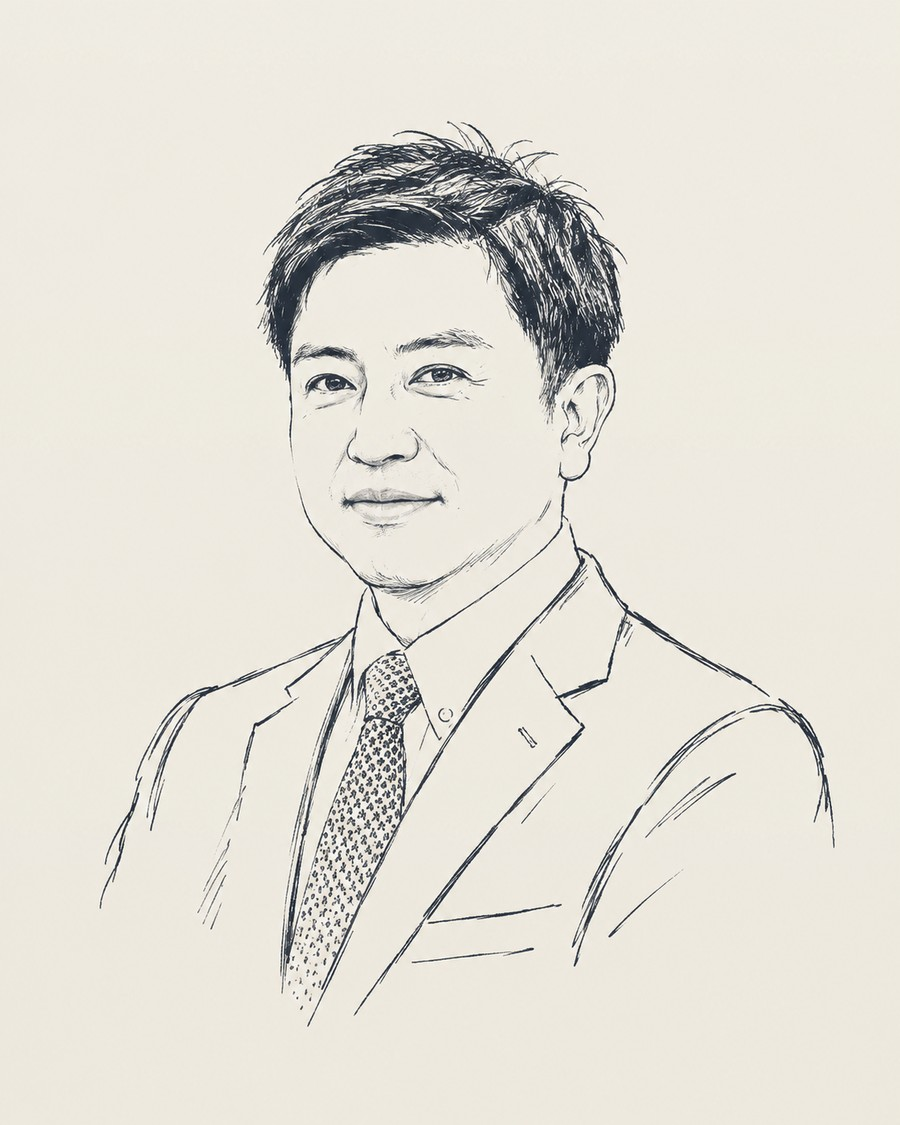
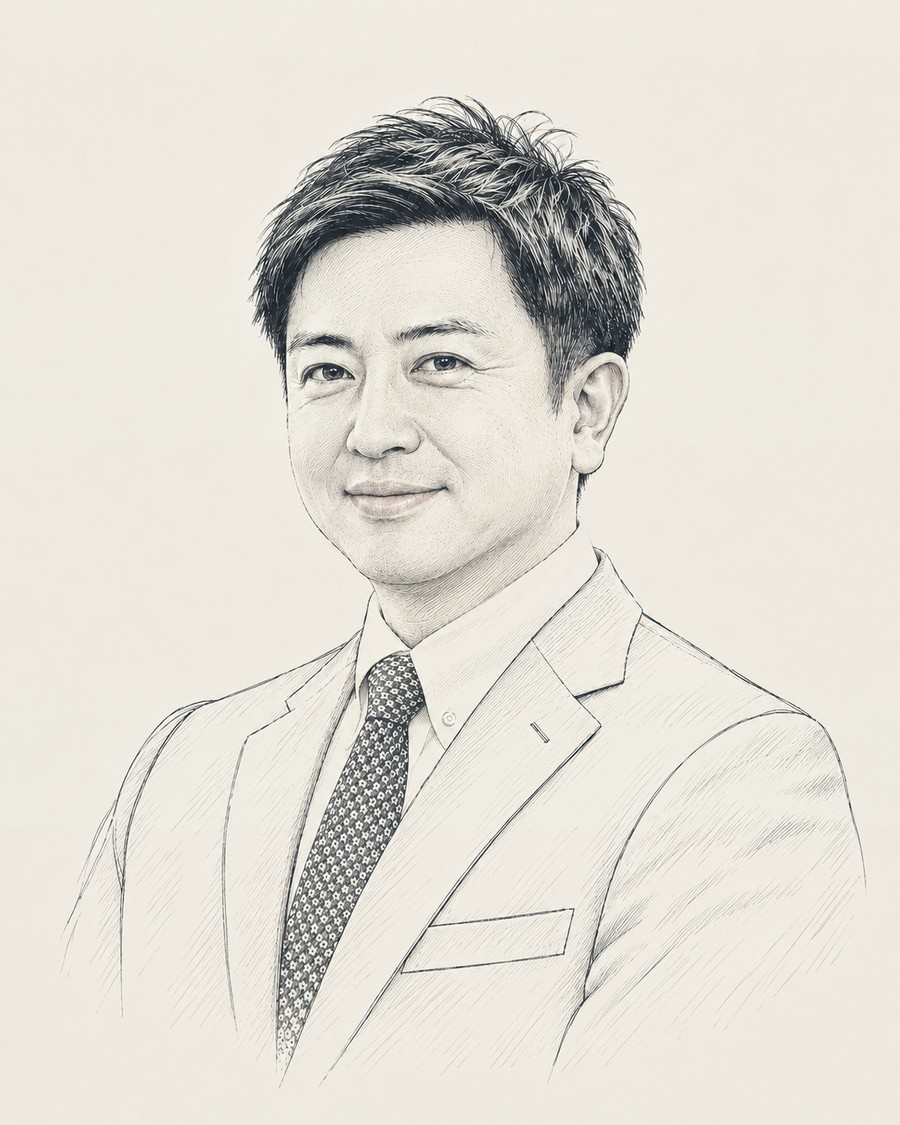
Swap in the updated Kazuyuki Surita portrait illustration
User provided a new version of Surita's portrait (warmer ivory-suit
rendering, same pose/likeness) to replace the one shipped earlier today.

docs/assets/img/leadership-surita.jpg: re-processed with the same
per-row gradient-match pipeline as the other two portraits (background
color-matched to .person-grad's actual gradient at this element's
measured position in the card, not a flat average).
docs/leadership/index.html (+ en/mn): ?v=2 -> ?v=3.

diff --git a/docs/leadership/index.html b/docs/leadership/index.html
@@ -153,7 +153,7 @@
       </div>
       <div class="people">
         <article class="person reveal">
-          <div class="person-photo"><img src="/assets/img/leadership-surita.jpg?v=2" width="900" height="1125" alt="" loading="lazy"></div>
+          <div class="person-photo"><img src="/assets/img/leadership-surita.jpg?v=3" width="900" height="1125" alt="" loading="lazy"></div>
           <p class="person-role">CHAIRMAN <span>会長</span></p>
           <h3 class="person-name">Kazuyuki Surita <span>摺田 和行</span></h3>
           <ul class="person-points">

diff --git a/docs/mn/leadership/index.html b/docs/mn/leadership/index.html
@@ -153,7 +153,7 @@
       </div>
       <div class="people">
         <article class="person reveal">
-          <div class="person-photo"><img src="/assets/img/leadership-surita.jpg?v=2" width="900" height="1125" alt="" loading="lazy"></div>
+          <div class="person-photo"><img src="/assets/img/leadership-surita.jpg?v=3" width="900" height="1125" alt="" loading="lazy"></div>
           <p class="person-role">ДАРГА</p>
           <h3 class="person-name">Kazuyuki Surita <span>摺田 和行</span></h3>
           <ul class="person-points">

diff --git a/docs/en/leadership/index.html b/docs/en/leadership/index.html
@@ -153,7 +153,7 @@
       </div>
       <div class="people">
         <article class="person reveal">
-          <div class="person-photo"><img src="/assets/img/leadership-surita.jpg?v=2" width="900" height="1125" alt="" loading="lazy"></div>
+          <div class="person-photo"><img src="/assets/img/leadership-surita.jpg?v=3" width="900" height="1125" alt="" loading="lazy"></div>
           <p class="person-role">CHAIRMAN</p>
           <h3 class="person-name">Kazuyuki Surita <span>摺田 和行</span></h3>
           <ul class="person-points">
